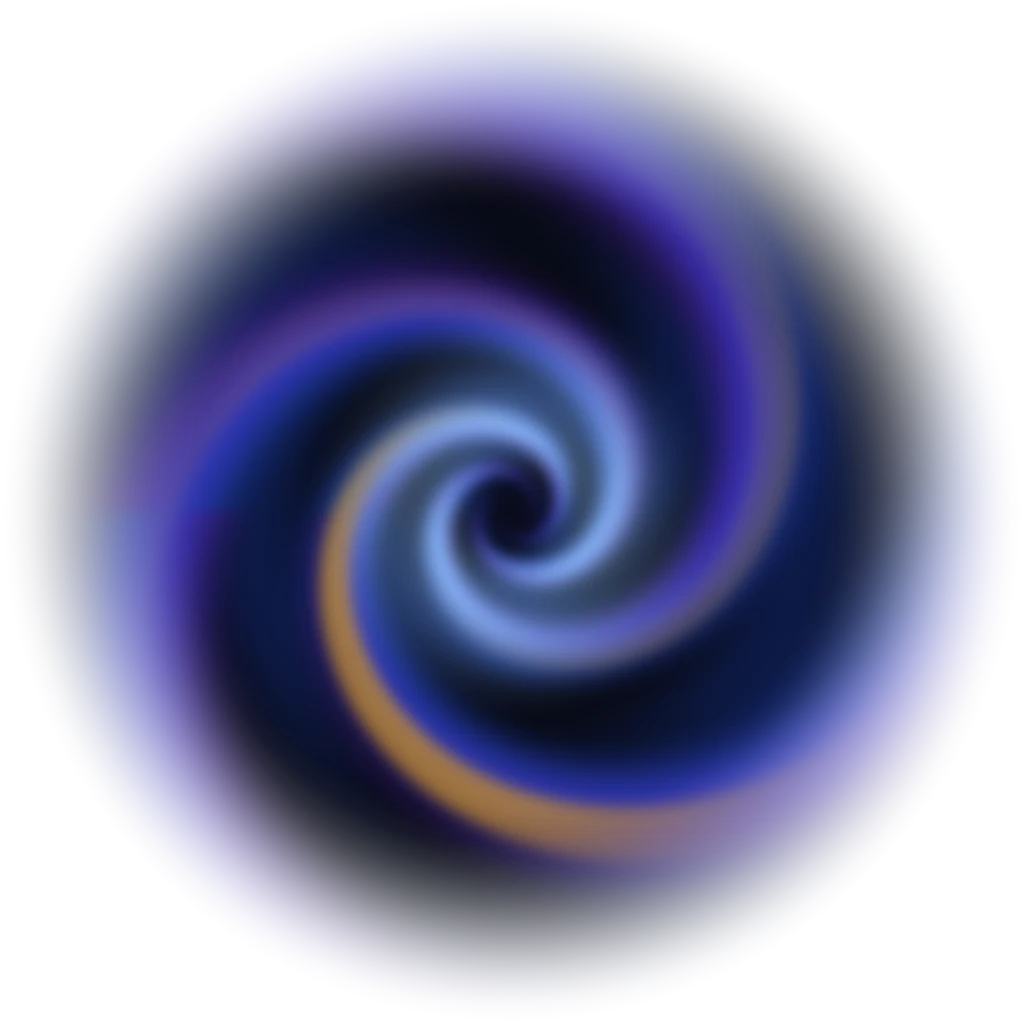
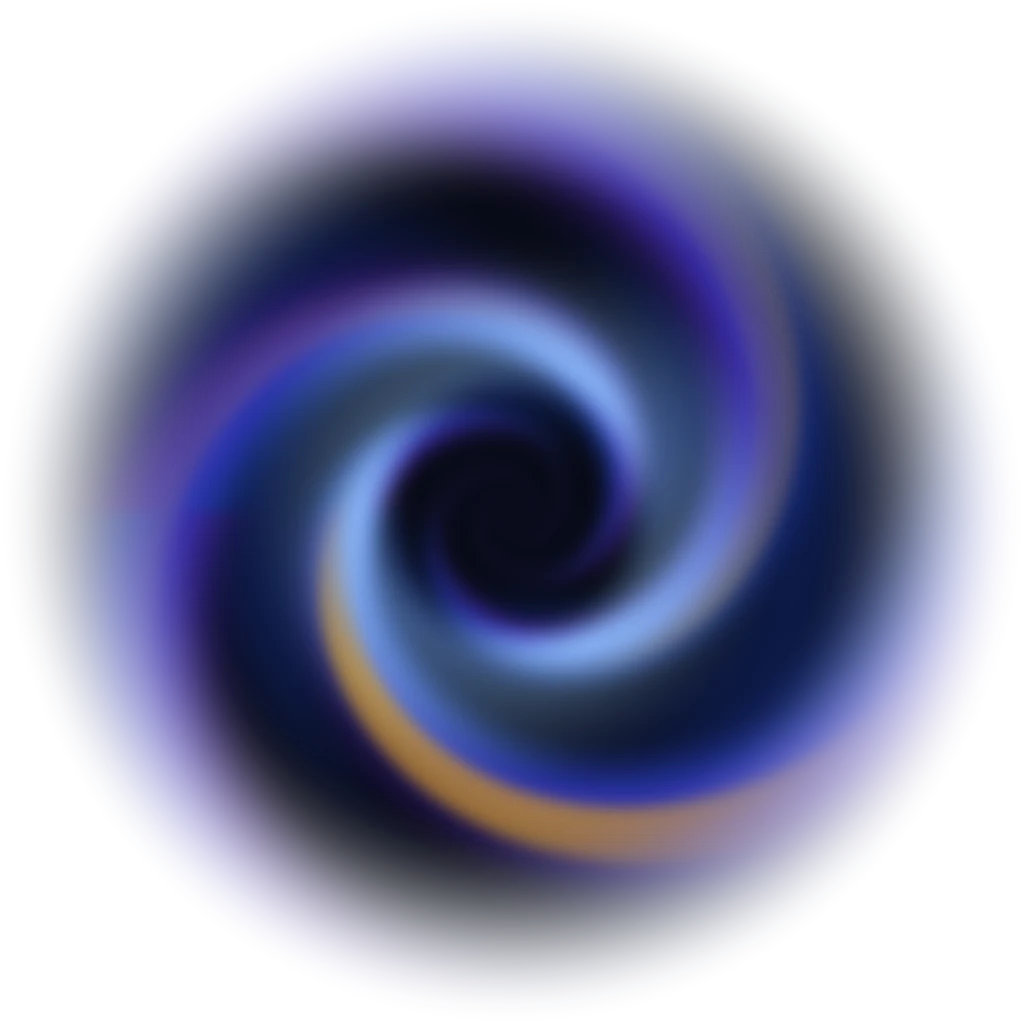
feat(home): vortex converges on the ERAS gem
The vortex's eye opens to the gem's size and its bright rim hugs the gem's
edge; the gem (favicon.svg) sits still in the eye while the vortex turns.

Changed region(s): [[0.25, 0.25, 0.75, 0.75]]

diff --git a/src/app/features/home/hub-carousel.component.scss b/src/app/features/home/hub-carousel.component.scss
@@ -52,10 +52,14 @@
 }
 
 // A slide without cards: a vortex of color where the cards would be (vortex.webp, built in design/home: tones curled
-// along a spiral into a dark eye, no shapes), larger than the slide and turning slowly
-.slide:not(.has-cards)::before {
+// along a spiral, no shapes), larger than the slide and turning slowly, converging on the ERAS gem, still, in its eye
+.slide:not(.has-cards) {
   --vortex: max(170cqb, 60cqi);
+  // The vortex's eye is drawn for a gem 0.29 of its size
+  --gem: calc(var(--vortex) * 0.29);
+}
 
+.slide:not(.has-cards)::before {
   inset: auto;
   inset-block-start: calc(50% - var(--vortex) / 2);
   inset-inline-start: calc(76% - var(--vortex) / 2);
@@ -81,6 +85,8 @@
 
 .slide:not(.has-cards)::after {
   background:
+    // centered where the vortex's eye is (76 % across)
+    url('/favicon.svg') no-repeat left calc(76cqi - var(--gem) / 2) center / var(--gem) var(--gem),
     linear-gradient(90deg, var(--color-hub-scrim) 25%, color-mix(in srgb, var(--color-hub-scrim) 45%, transparent) 55%, transparent 70%),
     linear-gradient(0deg, color-mix(in srgb, var(--color-hub-accent) 60%, transparent), transparent) bottom / 100% 1px no-repeat;
 }

diff --git a/design/home/build_vortex.py b/design/home/build_vortex.py
@@ -1,6 +1,7 @@
 """The home carousel's backdrop for slides without cards: a vortex made only of color, no shapes. Each pixel's tone comes
 from a logarithmic spiral (angle + twist·ln r), so the bands of color curl in towards a dark eye; deep blue and violet
-arms, a lighter blue where they meet the eye, a faint gold edge on one arm. Transparent towards the rim, so it melts
+arms, a lighter blue where they meet the eye, a faint gold edge on one arm. The eye is as wide as the ERAS gem, which
+the page sets on it: the arms converge on the gem's edge. Transparent towards the rim, so it melts
 into the slide's night blue. The page turns it slowly.
 
     python build_vortex.py <out.webp>
@@ -36,7 +37,7 @@ def vortex(size):
     arms = 0.5 + 0.5 * np.cos(3 * s1)          # three main arms
     arms = arms ** 1.8
     mist = 0.5 + 0.5 * np.cos(2 * s2 + 0.6 * np.sin(5 * s1))
-    gold_edge = smooth(0.80, 0.97, 0.5 + 0.5 * np.cos(3 * s1 - 0.55)) * smooth(0.15, 0.4, r) * (1 - smooth(0.55, 0.85, r))
+    gold_edge = smooth(0.80, 0.97, 0.5 + 0.5 * np.cos(3 * s1 - 0.55)) * smooth(0.3, 0.45, r) * (1 - smooth(0.6, 0.88, r))
     gold_edge *= 0.5 + 0.5 * np.cos(s1)        # on one arm more than the others
 
     night = rgb('#080a16')
@@ -52,9 +53,9 @@ def vortex(size):
     col = night + (deep - night) * (mist[..., None] * 0.9)
     col = col + (arm_color - col) * (arms[..., None] * 0.85)
     # Near the eye the arms brighten into ice blue, then the eye itself goes dark
-    rim = smooth(0.05, 0.16, r) * (1 - smooth(0.16, 0.42, r))
+    rim = smooth(0.2, 0.3, r) * (1 - smooth(0.3, 0.55, r))
     col = col + (ice - col) * (rim * (0.35 + 0.5 * arms))[..., None]
-    eye = 1 - smooth(0.02, 0.11, r)
+    eye = 1 - smooth(0.12, 0.26, r)  # under the gem
     col = col + (night - col) * (eye * 0.92)[..., None]
     col = col + (gold - col) * (gold_edge * 0.55)[..., None]
 
